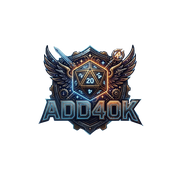
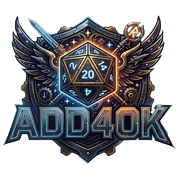
Tuiles suivi mobile + icône PWA agrandie
- GmTracker : réduit anneaux (160->96), photo (160->96) et silhouette
  d'armure (110->80) pour que chaque tuile tienne sans scroll
  horizontal sur un écran de 390px (iPhone 12 Pro) en disposition 1
  colonne. Vérifié : document.scrollWidth == innerWidth == 390 sur ce
  viewport.
- Icônes PWA (apple-touch-icon.png, icons/icon-192.png,
  icons/icon-512.png) : le badge ne remplissait que ~55-60% du
  canevas (beaucoup de marge transparente autour), rendant l'icône
  minuscule une fois épinglée sur l'écran d'accueil. Recadré sur le
  contenu réel et remis à l'échelle à 96% du canevas.

diff --git a/src/frontend/pages/GmTracker.tsx b/src/frontend/pages/GmTracker.tsx
@@ -24,7 +24,14 @@ import { RaceArmorSilhouette } from "../components/RaceArmorSilhouette";
 import { resizePortraitToDataUrl } from "../lib/image";
 
 const POLL_INTERVAL_MS = 5000;
-const RING_SIZE = 160;
+// Anneaux/photo/silhouette dimensionnés pour tenir sur un écran de 390px de
+// large (iPhone 12 Pro) sans scroll horizontal en tuile 1 colonne : silhouette
+// (SIL_SIZE + son padding px-3) + rings + photo + paddings/gap du contenu
+// tiennent dans les ~358px utiles (390 - px-4 de la page) avec une marge de
+// sécurité. Cf. CharacterTile ci-dessous pour le détail des paddings.
+const RING_SIZE = 96;
+const PHOTO_SIZE = 96;
+const SIL_SIZE = 80;
 const EMPTY_NPC_ATTRIBUTES: AttributeScores = Object.fromEntries(ATTRIBUTES.map((a) => [a, 0])) as AttributeScores;
 
 /**
@@ -130,9 +137,9 @@ function CharacterTile({
       state={{ from: "suivi" }}
       className="flex items-stretch overflow-hidden rounded-xl bg-slate-900 shadow transition hover:bg-slate-800"
     >
-      {/* Silhouette d'armure sur toute la hauteur — même taille (110) que sur la fiche personnage. */}
+      {/* Silhouette d'armure sur toute la hauteur — taille réduite par rapport à la fiche personnage (SIL_SIZE) pour tenir sur mobile. */}
       <div className="flex shrink-0 items-center justify-center self-stretch bg-slate-950/40 px-3">
-        <RaceArmorSilhouette race={c.race} armorTotals={c.armorTotals} size={110} />
+        <RaceArmorSilhouette race={c.race} armorTotals={c.armorTotals} size={SIL_SIZE} />
       </div>
       <div className="flex min-w-0 flex-1 flex-col p-3">
         <div className="flex items-center justify-between gap-2">
@@ -156,9 +163,17 @@ function CharacterTile({
         <div className="mt-2 flex flex-1 items-center gap-3">
           <ConstantsRings hpCurrent={c.hpCurrent} hpMax={c.hpMax} pspCurrent={c.pspCurrent} pspMax={c.pspMax} size={RING_SIZE} />
           {c.portraitUrl ? (
-            <img src={c.portraitUrl} alt={c.name} className="h-[160px] w-[160px] shrink-0 rounded-lg object-cover" />
+            <img
+              src={c.portraitUrl}
+              alt={c.name}
+              className="shrink-0 rounded-lg object-cover"
+              style={{ height: PHOTO_SIZE, width: PHOTO_SIZE }}
+            />
           ) : (
-            <div className="flex h-[160px] w-[160px] shrink-0 items-center justify-center rounded-lg bg-slate-800 text-4xl text-slate-600">
+            <div
+              className="flex shrink-0 items-center justify-center rounded-lg bg-slate-800 text-3xl text-slate-600"
+              style={{ height: PHOTO_SIZE, width: PHOTO_SIZE }}
+            >
               {c.name.charAt(0)}
             </div>
           )}
